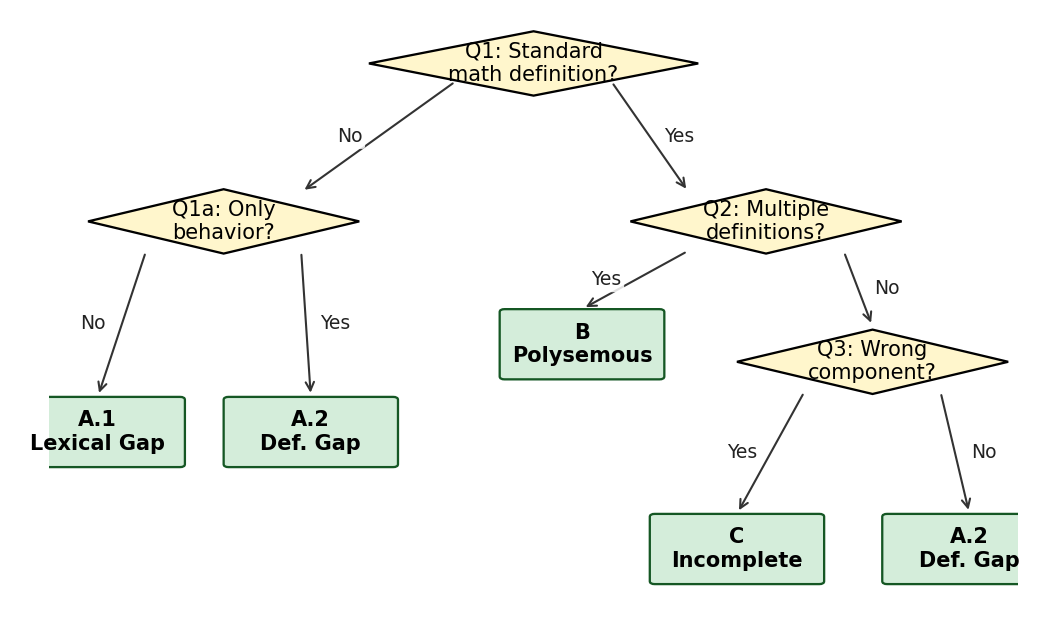
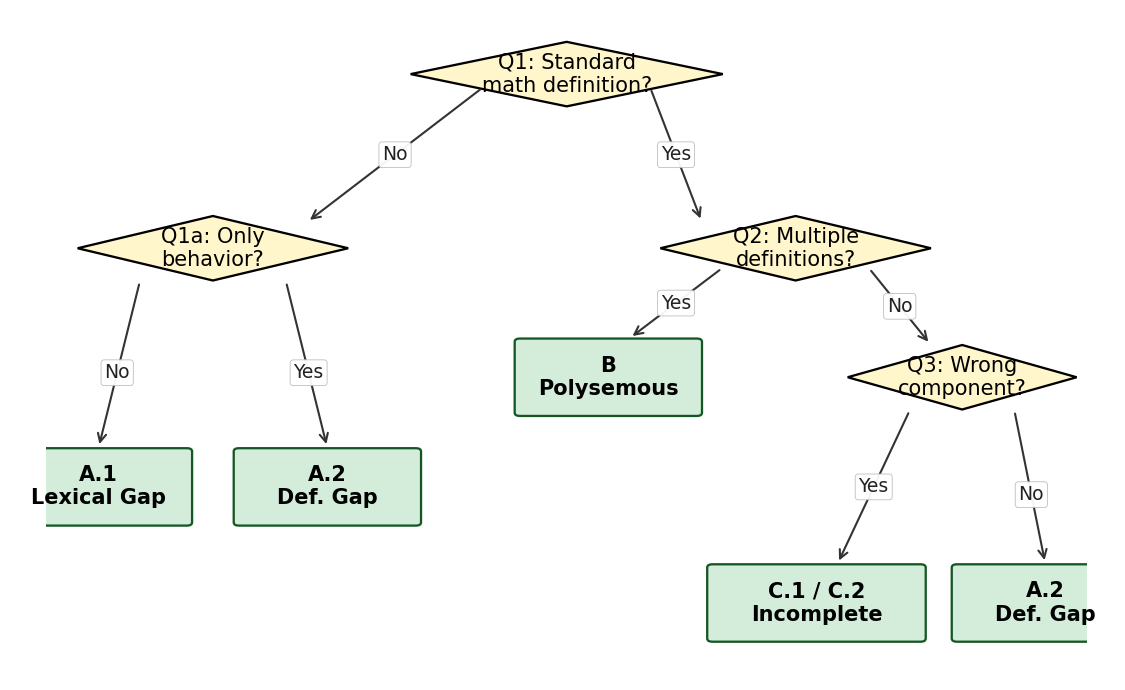
Airier figs, fix A.1 traversal example, study count, C.1/C.2 split in tree

diff --git a/paper/figs/make_figures.py b/paper/figs/make_figures.py
@@ -51,53 +51,56 @@ def fig_cross_model():
 
 def fig_crud_bridge():
     """100-case CRUD-Level-6 corpus -> 71 failures -> 5 leaves (Run #6 data)."""
-    fig, ax = plt.subplots(figsize=(5.5, 3.0))
+    fig, ax = plt.subplots(figsize=(6.2, 3.4))
     ax.axis("off")
 
+    # title (kept inside the figure box, top centred)
+    ax.text(0.50, 0.97, "Cross-domain mapping (CRUD-Level-6 corpus)",
+            ha="center", va="center", fontsize=11, fontweight="bold")
+
     # left: 100 CRUD cases
-    ax.add_patch(plt.Rectangle((0.02, 0.35), 0.20, 0.30,
+    ax.add_patch(plt.Rectangle((0.02, 0.40), 0.18, 0.26,
                                facecolor="#E8E8E8", edgecolor="black"))
-    ax.text(0.12, 0.50, "100 CRUD\ncases", ha="center", va="center",
+    ax.text(0.11, 0.53, "100 CRUD\ncases", ha="center", va="center",
             fontsize=10, fontweight="bold")
 
     # arrows to two outcomes
-    ax.annotate("", xy=(0.40, 0.78), xytext=(0.22, 0.55),
+    ax.annotate("", xy=(0.36, 0.78), xytext=(0.20, 0.60),
                 arrowprops=dict(arrowstyle="->", lw=1.2, color="#888"))
-    ax.annotate("", xy=(0.40, 0.22), xytext=(0.22, 0.45),
+    ax.annotate("", xy=(0.36, 0.24), xytext=(0.20, 0.46),
                 arrowprops=dict(arrowstyle="->", lw=1.5, color="#444"))
 
     # passes box (greyed)
-    ax.add_patch(plt.Rectangle((0.40, 0.66), 0.30, 0.24,
+    ax.add_patch(plt.Rectangle((0.36, 0.66), 0.28, 0.22,
                                facecolor="#F5F5F5", edgecolor="grey", linestyle="--"))
-    ax.text(0.55, 0.83, "29 passing", ha="center", va="center",
+    ax.text(0.50, 0.82, "29 passing", ha="center", va="center",
             fontsize=10, color="grey", fontweight="bold")
-    ax.text(0.55, 0.73, "(LLM resolved\nambiguity\ncorrectly)",
+    ax.text(0.50, 0.72, "(LLM resolved\nambiguity correctly)",
             ha="center", va="center", fontsize=8, color="grey", style="italic")
 
     # Failures box (highlighted)
-    ax.add_patch(plt.Rectangle((0.40, 0.06), 0.30, 0.34,
+    ax.add_patch(plt.Rectangle((0.36, 0.08), 0.28, 0.32,
                                facecolor="#FFE8B8", edgecolor="#B07000", linewidth=1.2))
-    ax.text(0.55, 0.34, "71 failures", ha="center", va="center",
+    ax.text(0.50, 0.34, "71 failures", ha="center", va="center",
             fontsize=11, fontweight="bold")
-    ax.text(0.55, 0.22, "64 Level 6 (90.1%)\n+ 7 compilation",
+    ax.text(0.50, 0.23, "64 Level 6 (90.1%)\n+ 7 compilation",
             ha="center", va="center", fontsize=8, style="italic")
-    ax.text(0.55, 0.10, "(EXEC\\_ASSERTION\\_MISMATCH)".replace("\\_","_"),
+    ax.text(0.50, 0.12, "(EXEC_ASSERTION_MISMATCH)",
             ha="center", va="center", fontsize=7, color="#553000")
 
-    # right: 5 leaf categories with actual counts
-    leaves = [("A.1", 29, 0.88), ("A.2", 6, 0.71), ("B", 10, 0.54),
-              ("C.1", 11, 0.37), ("C.2", 15, 0.20)]
+    # right: 5 leaf categories - pulled inward, narrower, evenly spaced
+    leaves = [("A.1", 29, 0.84), ("A.2", 6, 0.69), ("B", 10, 0.54),
+              ("C.1", 11, 0.39), ("C.2", 15, 0.24)]
     for cat, cnt, y in leaves:
-        ax.add_patch(plt.Rectangle((0.82, y - 0.06), 0.14, 0.12,
+        ax.add_patch(plt.Rectangle((0.74, y - 0.055), 0.13, 0.11,
                                    facecolor="#D4EDDA", edgecolor="#155724"))
-        ax.text(0.89, y, f"{cat}\n{cnt}", ha="center", va="center",
-                fontsize=8, fontweight="bold")
-        ax.annotate("", xy=(0.82, y), xytext=(0.70, 0.23),
+        ax.text(0.805, y, f"{cat}: {cnt}", ha="center", va="center",
+                fontsize=9, fontweight="bold")
+        ax.annotate("", xy=(0.74, y), xytext=(0.64, 0.24),
                     arrowprops=dict(arrowstyle="->", lw=0.7, color="#155724"))
 
-    ax.text(0.55, 0.96, "Cross-domain mapping (CRUD-Level-6 corpus)",
-            ha="center", va="center", fontsize=11, fontweight="bold")
-    ax.text(0.89, 0.04, "5 taxonomy\nleaves",
+    # caption under the leaf stack, kept well inside x=1.0
+    ax.text(0.805, 0.10, "5 taxonomy leaves",
             ha="center", va="center", fontsize=8, style="italic", color="#155724")
 
     ax.set_xlim(0, 1)
@@ -151,7 +154,7 @@ def fig_mitigation():
 
 def fig_decision_tree():
     """Render the decision tree as a clean, airy matplotlib figure."""
-    fig, ax = plt.subplots(figsize=(7.0, 4.2))
+    fig, ax = plt.subplots(figsize=(7.5, 4.6))
     ax.axis("off")
     ax.set_xlim(0, 1); ax.set_ylim(0, 1)
 
@@ -160,6 +163,7 @@ def fig_decision_tree():
         ax.add_patch(plt.Polygon(pts, closed=True, facecolor=fc,
                                   edgecolor="black", linewidth=1.1))
         ax.text(cx, cy, text, ha="center", va="center", fontsize=10)
+        return cx, cy, w, h
 
     def leaf(cx, cy, w, h, text, fc="#D4EDDA"):
         ax.add_patch(mpatches.FancyBboxPatch((cx - w/2, cy - h/2), w, h,
@@ -169,41 +173,43 @@ def fig_decision_tree():
         ax.text(cx, cy, text, ha="center", va="center",
                 fontsize=10, fontweight="bold")
 
-    def edge(x1, y1, x2, y2, label="", side="left"):
+    def edge(x1, y1, x2, y2, label="", t=0.45):
+        # t controls where along the arrow the label is anchored
         ax.annotate("", xy=(x2, y2), xytext=(x1, y1),
                     arrowprops=dict(arrowstyle="->", lw=1.0, color="#333"))
         if label:
-            mx, my = (x1 + x2) / 2, (y1 + y2) / 2
-            dx = -0.030 if side == "left" else 0.030
-            ax.text(mx + dx, my, label, ha="center", va="center",
+            lx = x1 + t * (x2 - x1)
+            ly = y1 + t * (y2 - y1)
+            ax.text(lx, ly, label, ha="center", va="center",
                     fontsize=9, color="#222",
-                    bbox=dict(boxstyle="round,pad=0.15", facecolor="white",
-                              edgecolor="none", alpha=0.85))
+                    bbox=dict(boxstyle="round,pad=0.18",
+                              facecolor="white", edgecolor="#bbb",
+                              linewidth=0.4, alpha=0.95))
 
-    # Root
-    diamond(0.50, 0.93, 0.34, 0.11, "Q1: Standard\nmath definition?")
-    # Level 2: Q1a (left) and Q2 (right)
-    diamond(0.18, 0.66, 0.28, 0.11, "Q1a: Only\nbehavior?")
-    diamond(0.74, 0.66, 0.28, 0.11, "Q2: Multiple\ndefinitions?")
-    # Level 3 leaves under Q1a
-    leaf(0.05, 0.30, 0.17, 0.11, "A.1\nLexical Gap")
-    leaf(0.27, 0.30, 0.17, 0.11, "A.2\nDef. Gap")
-    # Level 3: B leaf (under Q2-Yes) and Q3 (under Q2-No)
-    leaf(0.55, 0.45, 0.16, 0.11, "B\nPolysemous")
-    diamond(0.85, 0.42, 0.28, 0.11, "Q3: Wrong\ncomponent?")
-    # Level 4 leaves under Q3
-    leaf(0.71, 0.10, 0.17, 0.11, "C\nIncomplete")
-    leaf(0.95, 0.10, 0.17, 0.11, "A.2\nDef. Gap")
+    # Root (more headroom)
+    diamond(0.50, 0.92, 0.30, 0.10, "Q1: Standard\nmath definition?")
+    # Level 2 — pulled outward for breathing room
+    diamond(0.16, 0.65, 0.26, 0.10, "Q1a: Only\nbehavior?")
+    diamond(0.72, 0.65, 0.26, 0.10, "Q2: Multiple\ndefinitions?")
+    # Leaves under Q1a — wider gap
+    leaf(0.05, 0.28, 0.17, 0.11, "A.1\nLexical Gap")
+    leaf(0.27, 0.28, 0.17, 0.11, "A.2\nDef. Gap")
+    # Mid level: B leaf (Q2-Yes) and Q3 (Q2-No)
+    leaf(0.54, 0.45, 0.17, 0.11, "B\nPolysemous")
+    diamond(0.88, 0.45, 0.22, 0.10, "Q3: Wrong\ncomponent?")
+    # Bottom leaves under Q3 (C splits into C.1 / C.2 by which component is missing)
+    leaf(0.74, 0.10, 0.20, 0.11, "C.1 / C.2\nIncomplete")
+    leaf(0.96, 0.10, 0.17, 0.11, "A.2\nDef. Gap")
 
-    # Edges
-    edge(0.42, 0.90, 0.26, 0.71, "No",  "left")
-    edge(0.58, 0.90, 0.66, 0.71, "Yes", "right")
-    edge(0.10, 0.61, 0.05, 0.36, "No",  "left")
-    edge(0.26, 0.61, 0.27, 0.36, "Yes", "right")
-    edge(0.66, 0.61, 0.55, 0.51, "Yes", "left")
-    edge(0.82, 0.61, 0.85, 0.48, "No",  "right")
-    edge(0.78, 0.37, 0.71, 0.16, "Yes", "left")
-    edge(0.92, 0.37, 0.95, 0.16, "No",  "right")
+    # Edges (start outside parent shape, end outside child shape)
+    edge(0.42, 0.90, 0.25, 0.69, "No",  t=0.5)
+    edge(0.58, 0.90, 0.63, 0.69, "Yes", t=0.5)
+    edge(0.09, 0.60, 0.05, 0.34, "No",  t=0.55)
+    edge(0.23, 0.60, 0.27, 0.34, "Yes", t=0.55)
+    edge(0.65, 0.62, 0.56, 0.51, "Yes", t=0.5)
+    edge(0.79, 0.62, 0.85, 0.50, "No",  t=0.5)
+    edge(0.83, 0.40, 0.76, 0.16, "Yes", t=0.5)
+    edge(0.93, 0.40, 0.96, 0.16, "No",  t=0.55)
 
     plt.tight_layout()
     plt.savefig(OUT / "fig_decision_tree.pdf")

diff --git a/paper/main.tex b/paper/main.tex
@@ -72,7 +72,7 @@ Failures are classified by traversing the deterministic decision tree of Fig.~\r
 \begin{figure}[t]
 \centering
 \includegraphics[width=\columnwidth]{figs/fig_decision_tree.pdf}
-\caption{Deterministic decision tree for category assignment. Each internal node is a yes/no question; the first matching leaf wins.}
+\caption{Deterministic decision tree for category assignment. Each internal node is a yes/no question; the first matching leaf wins. The combined \textsf{C.1\,/\,C.2} leaf splits by inspection of which component is missing (reference vs.\ reduction operator).}
 \label{fig:decisiontree}
 \end{figure}
 
@@ -85,7 +85,7 @@ Failures are classified by traversing the deterministic decision tree of Fig.~\r
   \item \textbf{C.2 Missing Reduction Operator.} Operation family is correct but the combinator is unspecified (``how to aggregate?'').
 \end{itemize}
 
-\textbf{Example traversals.} \emph{(i)}~Prompt ``Return the entropy of the distribution'' $\rightarrow$ Q1: Yes (standard term) $\rightarrow$ Q2: Yes (multiple conventions) $\rightarrow$ \textbf{leaf B}. \emph{(ii)}~Prompt ``Return the relative change'' $\rightarrow$ Q1: Yes $\rightarrow$ Q2: No (single family) $\rightarrow$ Q3: Yes (correct op, missing reference) $\rightarrow$ \textbf{leaf C.1}. \emph{(iii)}~Prompt ``Return the intensity of the signal'' $\rightarrow$ Q1: No $\rightarrow$ Q1a: Yes (no behavior described) $\rightarrow$ \textbf{leaf A.1}.
+\textbf{Example traversals.} \emph{(i)}~Prompt ``Return the entropy of the distribution'' $\rightarrow$ Q1: Yes (standard term) $\rightarrow$ Q2: Yes (multiple conventions) $\rightarrow$ \textbf{leaf B}. \emph{(ii)}~Prompt ``Return the relative change'' $\rightarrow$ Q1: Yes $\rightarrow$ Q2: No (single family) $\rightarrow$ Q3: Yes (correct op, missing reference) $\rightarrow$ \textbf{leaf C.1}. \emph{(iii)}~Prompt ``Return the intensity of the signal'' $\rightarrow$ Q1: No $\rightarrow$ Q1a: No (no behavior described) $\rightarrow$ \textbf{leaf A.1}.
 
 \subsection{Test Case Format}
 Each ambiguity case is a YAML file with a deliberately underspecified \texttt{prompt}, a \texttt{fullClassName} fixing the target, and a list of \texttt{tests} encoding the author's intent. \emph{Expected values are withheld from the LLM.}
@@ -100,7 +100,7 @@ tests:
 \section{Empirical Study}\label{sec:results}
 
 \subsection{Setup}
-We conducted three studies on the GenTest platform~\cite{anonymizedphd} (Spring Boot~3.2 + Java~17 + PostgreSQL~16). LLMs were queried with temperature~0.1 to minimize stochastic variation.
+We conducted four studies on the GenTest platform~\cite{anonymizedphd} (Spring Boot~3.2 + Java~17 + PostgreSQL~16). LLMs were queried with temperature~0.1 to minimize stochastic variation.
 \begin{itemize}\itemsep0pt
 \item \textbf{Study~1 (original):} 93 numeric ambiguity cases on \textbf{Claude Sonnet~4} (\texttt{claude-sonnet-4-20250514}).
 \item \textbf{Study~2 (cross-model):} 100 fresh ambiguity cases on \textbf{DeepSeek-Chat}.
@@ -256,7 +256,7 @@ Each category corresponds to a different mitigation effort:
 \begin{itemize}\itemsep0pt
   \item \textbf{C.1, C.2 (43\%):} name the missing component (``signed differences,'' ``median'')---one word.
   \item \textbf{B (16\%):} specify the convention (``Shannon entropy with $\ln$'').
-  \item \textbf{A.1 (33\%):} provide the explicit formula (``intensity = $\sum |v_i|$'').
+  \item \textbf{A.1 (33\%):} provide the explicit formula (e.g., \emph{intensity} as the sum of absolute values).
   \item \textbf{A.2 (9\%):} provide the algorithm or worked examples.
 \end{itemize}
 The ordering matches \emph{cost-effectiveness}: clarifying components yields the highest failure reduction per character of added specification.